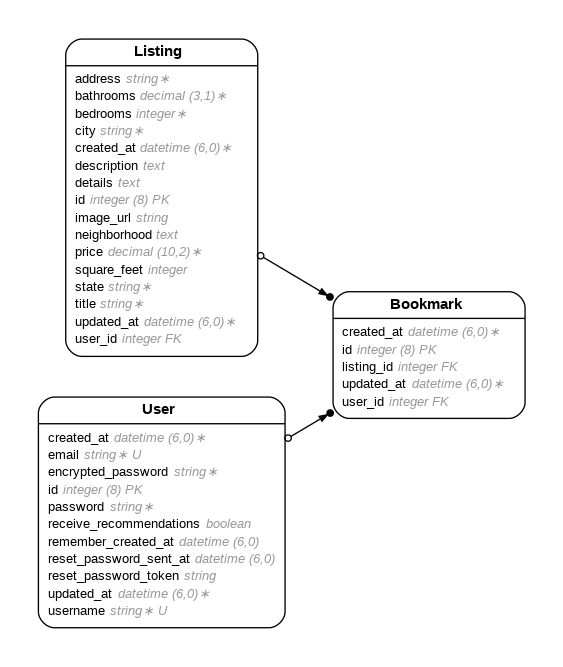
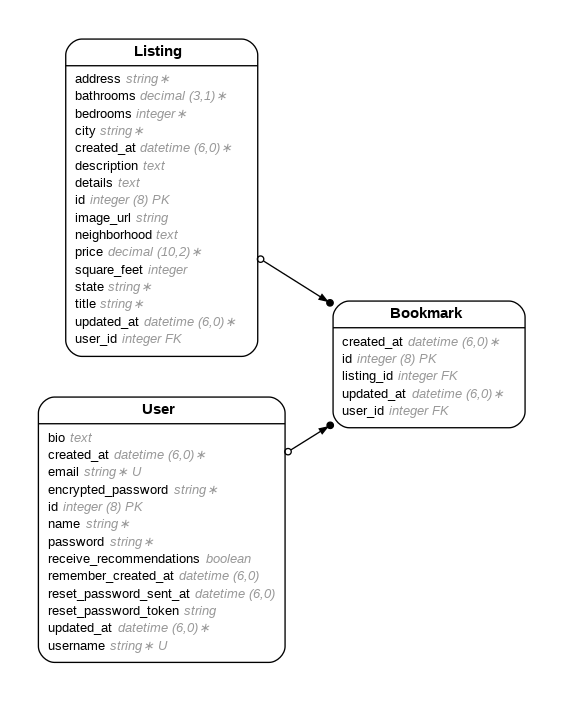
added name and bio columns to user model/updated user edit page

Changed region(s): [[0.0604, 0.03, 0.9361, 0.9595], [0.4831, 0.3898, 0.5435, 0.4198], [0.4529, 0.3598, 0.4831, 0.3898]]

diff --git a/app/mailers/recommendation_mailer.rb b/app/mailers/recommendation_mailer.rb
@@ -1,21 +1,36 @@
 class RecommendationMailer < ApplicationMailer
-  default from: 'recommendations@rentalhub.com'
+  default from: "recommendations@cove.com"
 
   def weekly_recommendations(user)
     @user = user
-    
+
+    # Check if API key exists
+    unless ENV["ANTHROPIC_API_KEY"].present?
+      Rails.logger.error("Cannot send recommendations: ANTHROPIC_API_KEY not configured")
+      return
+    end
+
     # Generate AI recommendations
-    service = AiRecommendationService.new(user)
-    result = service.generate_recommendations
-    
+    begin
+      service = AiRecommendationService.new(user)
+      result = service.generate_recommendations
+    rescue => e
+      Rails.logger.error("Failed to generate recommendations for #{user.email}: #{e.message}")
+      Rails.logger.error(e.backtrace.join("\n"))
+      return
+    end
+
     return unless result && result[:success] && result[:recommendations].any?
-    
+
     @recommendations = result[:recommendations]
     @summary = result[:summary]
-    
+
     mail(
       to: @user.email,
-      subject: "#{@user.username}, we found #{@recommendations.count} listings you might love! 🏡"
+      subject: "#{@user.username}, Cove found #{@recommendations.count} listings you might love! 🏡"
     )
+  rescue => e
+    Rails.logger.error("Failed to send recommendations to #{user.email}: #{e.message}")
+    Rails.logger.error(e.backtrace.join("\n"))
   end
 end

diff --git a/app/models/user.rb b/app/models/user.rb
@@ -3,8 +3,10 @@
 # Table name: users
 #
 #  id                      :bigint           not null, primary key
+#  bio                     :text
 #  email                   :string
 #  encrypted_password      :string           default(""), not null
+#  name                    :string
 #  password                :string
 #  receive_recommendations :boolean
 #  remember_created_at     :datetime
@@ -26,6 +28,8 @@ class User < ApplicationRecord
   has_many :bookmarks, dependent: :destroy
   has_many :bookmarked_listings, through: :bookmarks, source: :listing
 
-  validates :username, presence: true, uniqueness: true, length: { minimum: 3, maximum: 20 }
-  validates :username, format: { with: /\A[a-zA-Z0-9_]+\z/, message: "can only contain letters, numbers, and underscores" }
+  validates :name, presence: true, length: { maximum: 100 }
+  validates :username, presence: true, uniqueness: true, length: { maximum: 50 }
+
+  validates :bio, length: { maximum: 500 }, allow_blank: true
 end

diff --git a/db/schema.rb b/db/schema.rb
@@ -10,7 +10,7 @@
 #
 # It's strongly recommended that you check this file into your version control system.
 
-ActiveRecord::Schema[8.0].define(version: 2026_02_06_050601) do
+ActiveRecord::Schema[8.0].define(version: 2026_02_09_234429) do
   # These are extensions that must be enabled in order to support this database
   enable_extension "pg_catalog.plpgsql"
 
@@ -192,6 +192,8 @@ ActiveRecord::Schema[8.0].define(version: 2026_02_06_050601) do
     t.datetime "reset_password_sent_at"
     t.datetime "remember_created_at"
     t.boolean "receive_recommendations"
+    t.string "name"
+    t.text "bio"
     t.index ["email"], name: "index_users_on_email", unique: true
     t.index ["reset_password_token"], name: "index_users_on_reset_password_token", unique: true
   end

diff --git a/db/migrate/20260209233917_add_name_to_users.rb b/db/migrate/20260209233917_add_name_to_users.rb
@@ -1,0 +1,5 @@
+class AddNameToUsers < ActiveRecord::Migration[8.0]
+  def change
+    add_column :users, :name, :string
+  end
+end

diff --git a/db/migrate/20260209234429_add_bio_to_users.rb b/db/migrate/20260209234429_add_bio_to_users.rb
@@ -1,0 +1,5 @@
+class AddBioToUsers < ActiveRecord::Migration[8.0]
+  def change
+    add_column :users, :bio, :text
+  end
+end
